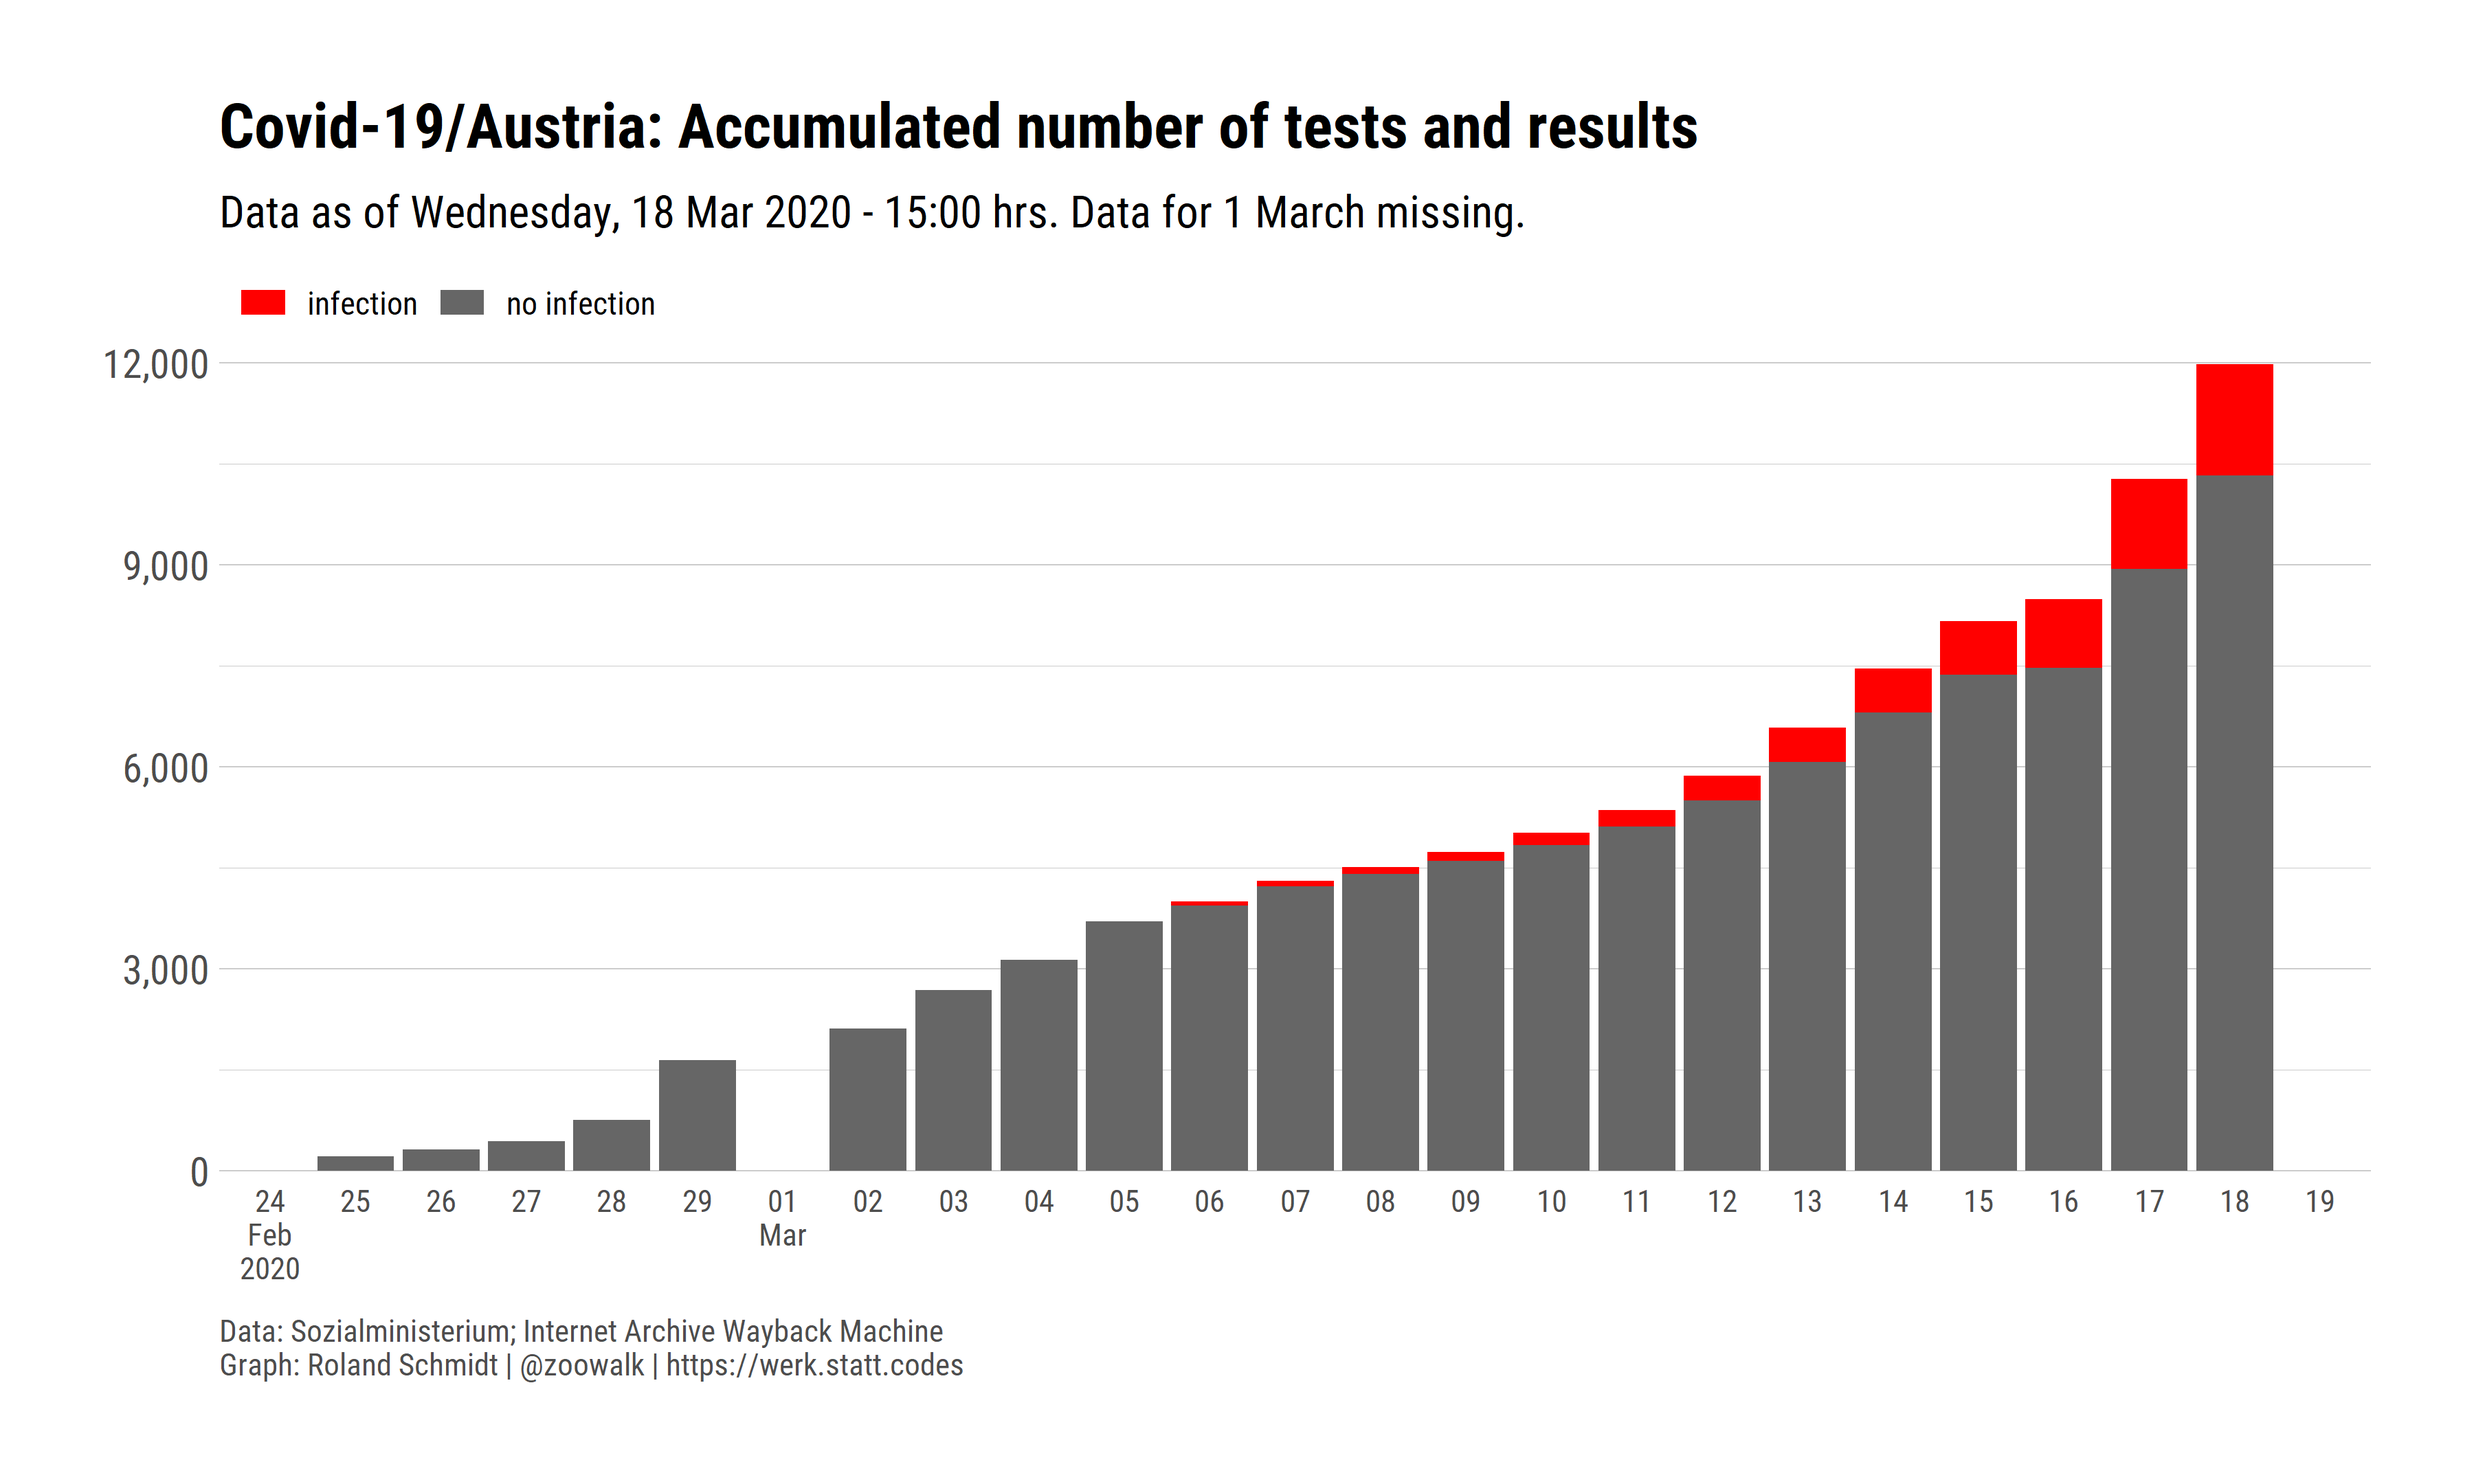
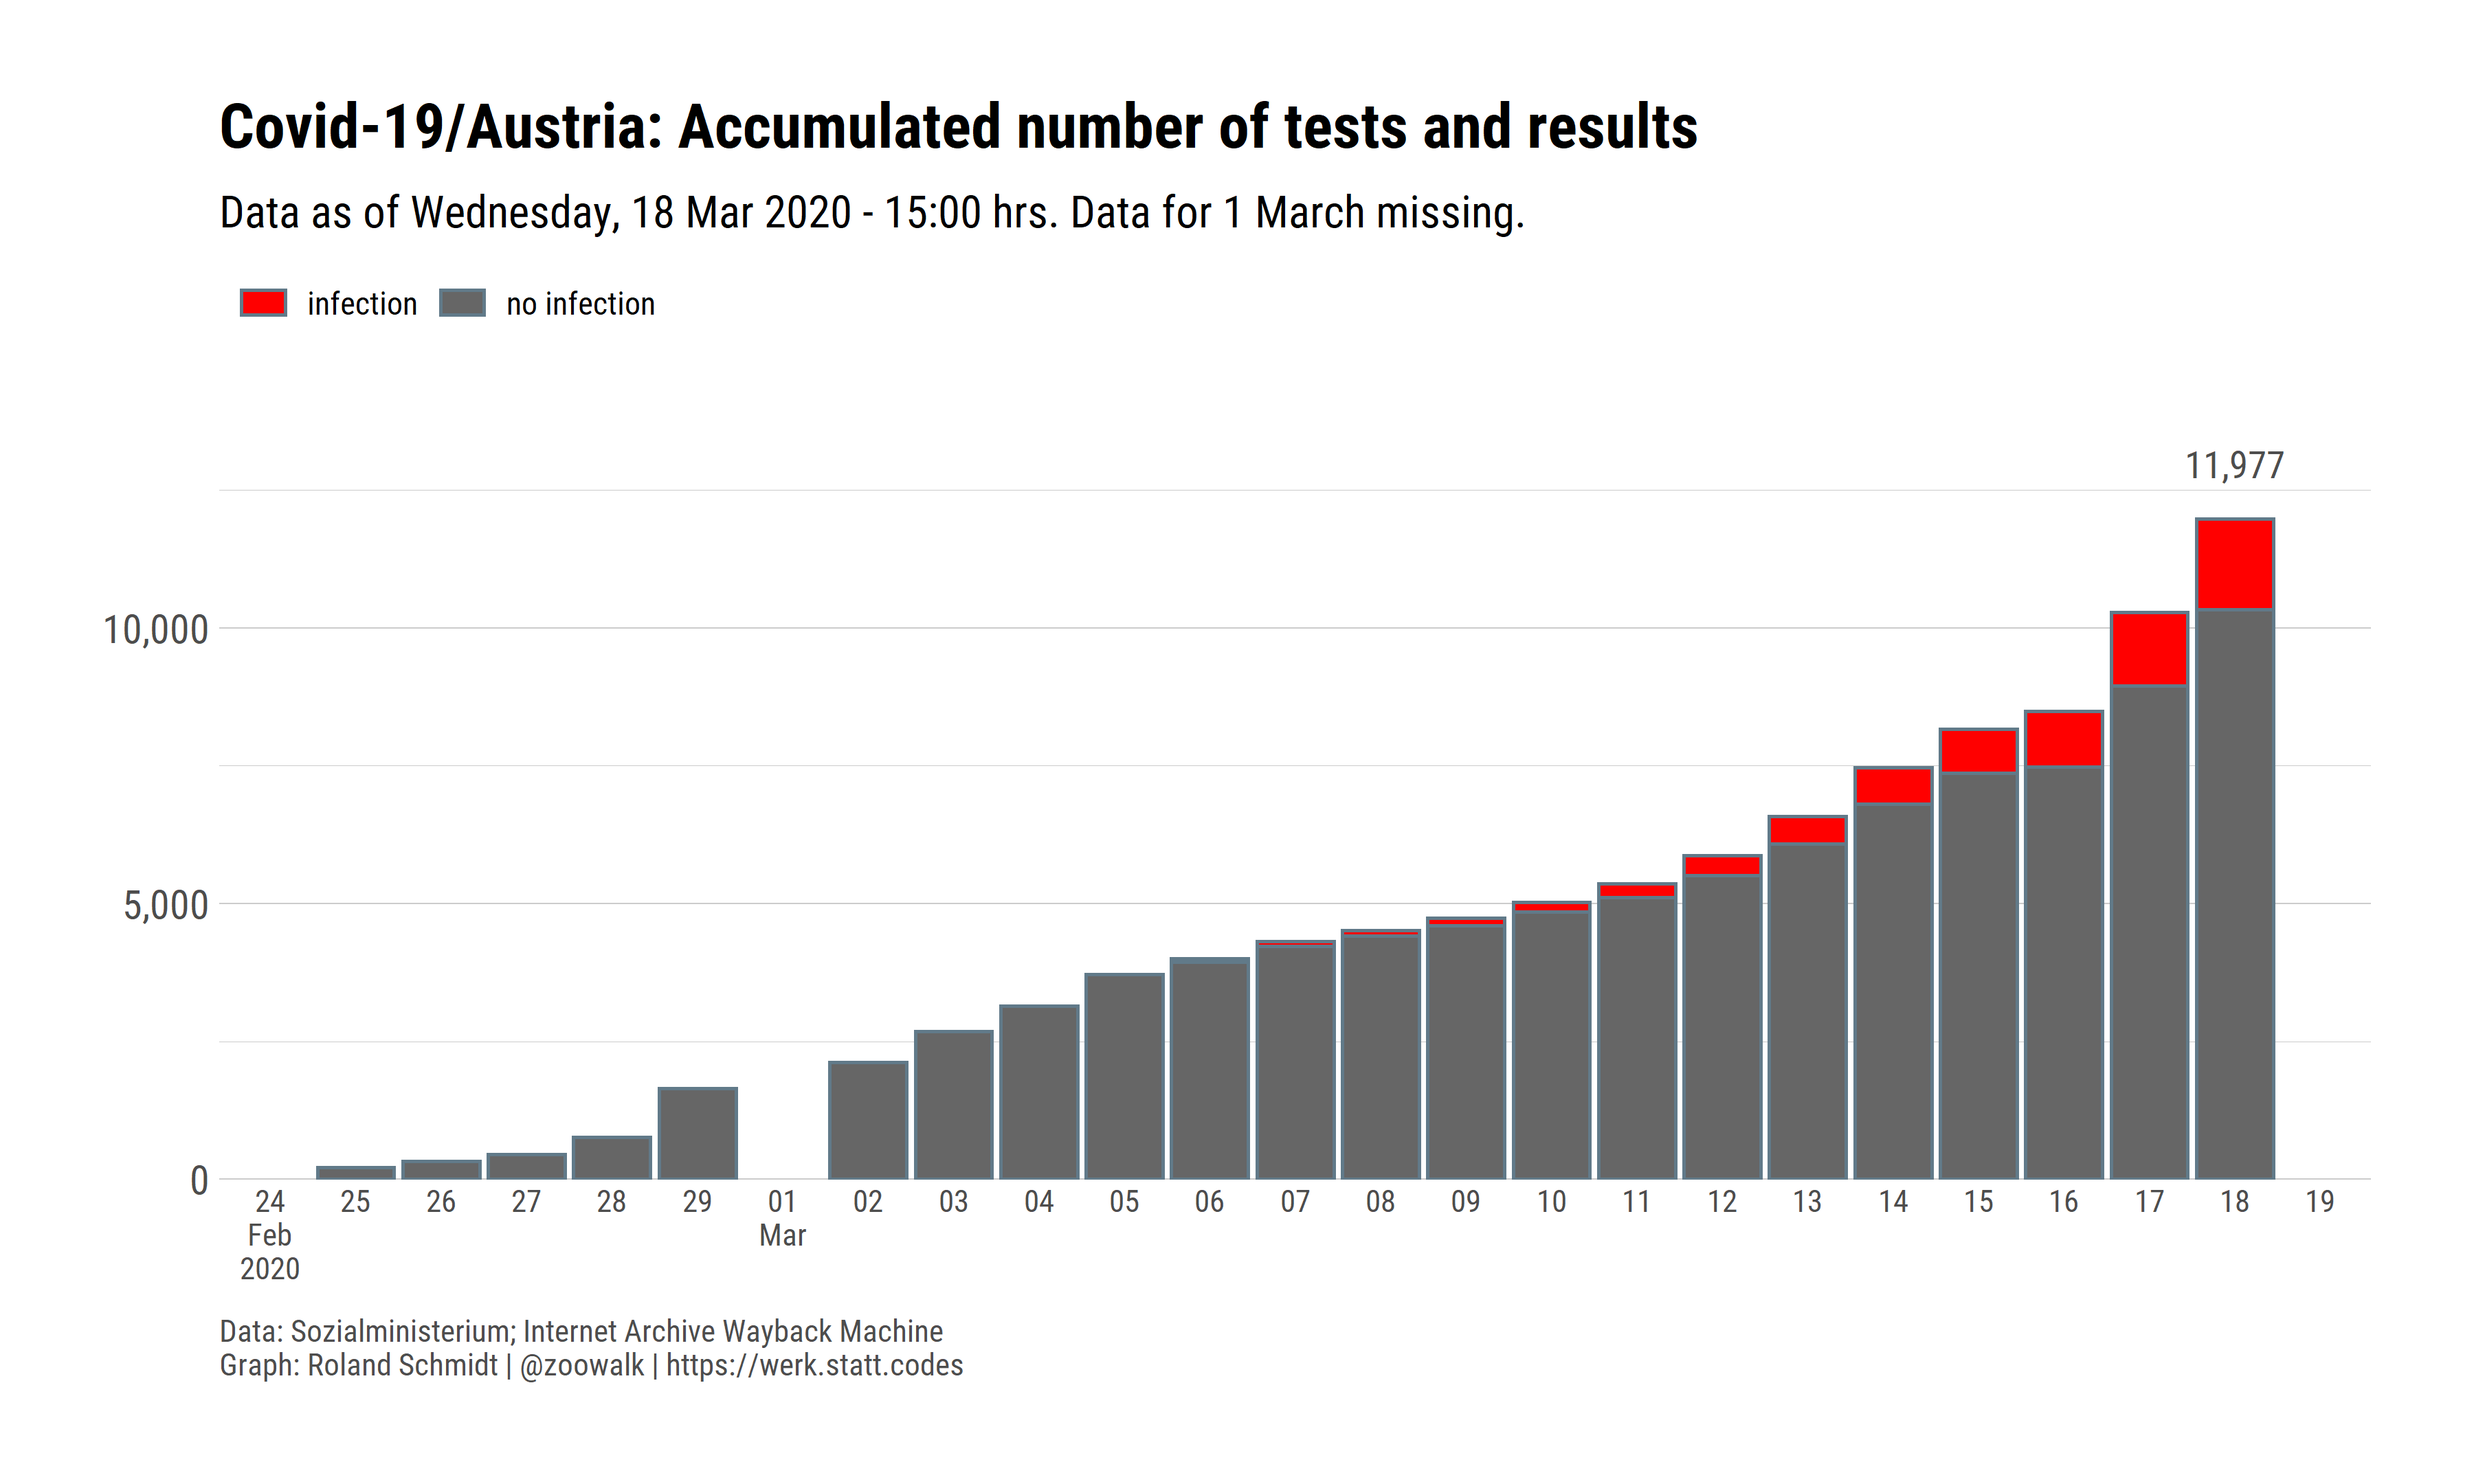
update 19_03

diff --git a/content/post/2020-03-11-covid-19-corona-virus-quick-look-at-some-data.html b/content/post/2020-03-11-covid-19-corona-virus-quick-look-at-some-data.html
@@ -638,12 +638,24 @@ pl_test_results_accum &lt;- df_combined_clean_x %&gt;%
        caption=my_caption)+
   geom_bar(aes(x=date_d,
                y=value,
+               color=NULL,
                fill=var),
-           color=NA,
            stat=&quot;identity&quot;)+
+  geom_text(data=. %&gt;% 
+              group_by(date_d) %&gt;% 
+              summarise(day_sum=sum(value, na.rm=T)) %&gt;% 
+              filter(date_d==max(date_d)),
+            aes(x=date_d,
+                label=scales::comma(day_sum),
+                y=day_sum),
+                hjust=.5,
+                color=&quot;grey30&quot;,
+                family=&quot;Roboto Condensed&quot;,
+            nudge_y=1000,
+            stat=&quot;identity&quot;)+
   scale_x_date(labels = scales::label_date_short(),
                breaks = scales::breaks_width(width=&quot;1 day&quot;))+
-  scale_y_comma()+
+  scale_y_comma(expand=expansion(mult=c(0, 0.15)))+
   scale_fill_manual(values=c(&quot;num_confirmed&quot;=&quot;red&quot;,
                              &quot;num_healthy&quot;=&quot;grey40&quot;),
                     labels=c(&quot;num_confirmed&quot;=&quot;infection&quot;,
@@ -663,7 +675,7 @@ pl_test_results_accum &lt;- df_combined_clean_x %&gt;%
         legend.title=element_blank(),
         legend.margin = margin(r=0, l=0, unit=&quot;cm&quot;),
         legend.key.width=unit(0.5, unit=&quot;cm&quot;),
-        legend.key.height = unit(0.2, unit=&quot;cm&quot;))</code></pre>
+        legend.key.height = unit(0.2, unit=&quot;cm&quot;))  </code></pre>
 </details>
 <p><img src="/post/2020-03-11-covid-19-corona-virus-quick-look-at-some-data_files/figure-html/unnamed-chunk-22-1.png" width="1800" style="display: block; margin: auto;" /></p>
 <details closed>
